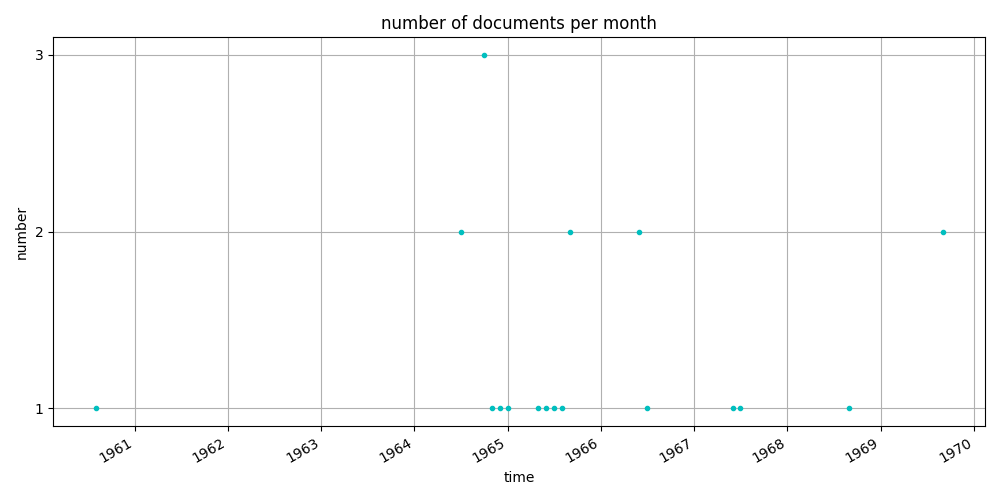
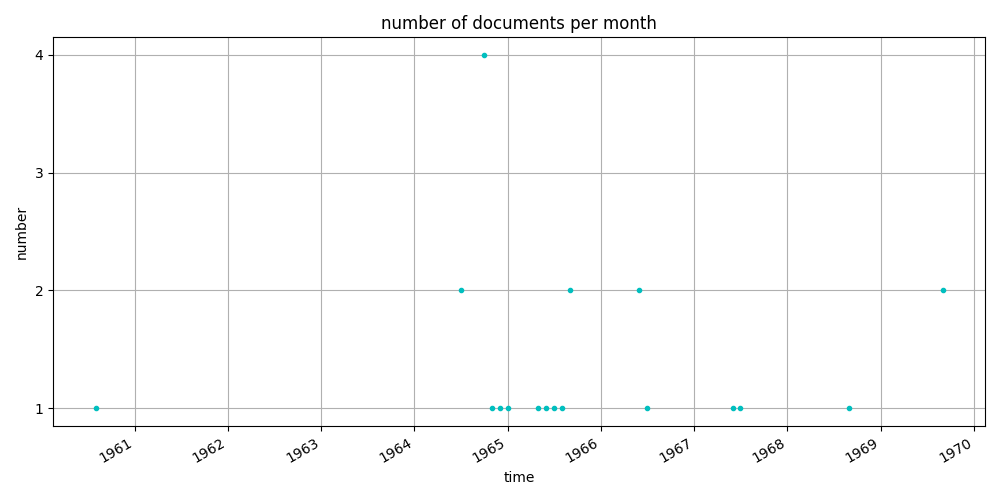
output csv written

diff --git a/metadata/md/metadata-analysis.md b/metadata/md/metadata-analysis.md
@@ -49,6 +49,7 @@ doc
 0021  Auden, W. H.              Autograph Letter Signed W. H. Auden to Hugo Kurka 1964-09-16  Kirchstetten
 0022  Auden, W. H.              Autograph Letter Signed W. H. Auden to Hugo Kurka 1964-09-28  Kirchstetten
 0023  Auden, W. H.              Autograph Letter Signed W. H. Auden to Hugo Kurka 1966-05-20  Kirchstetten
+0024  Auden, W. H.              Autograph Letter Signed W. H. Auden to Hugo Kurka 1964-09-16  Kirchstetten
 ```
 ## scatter plot
 
